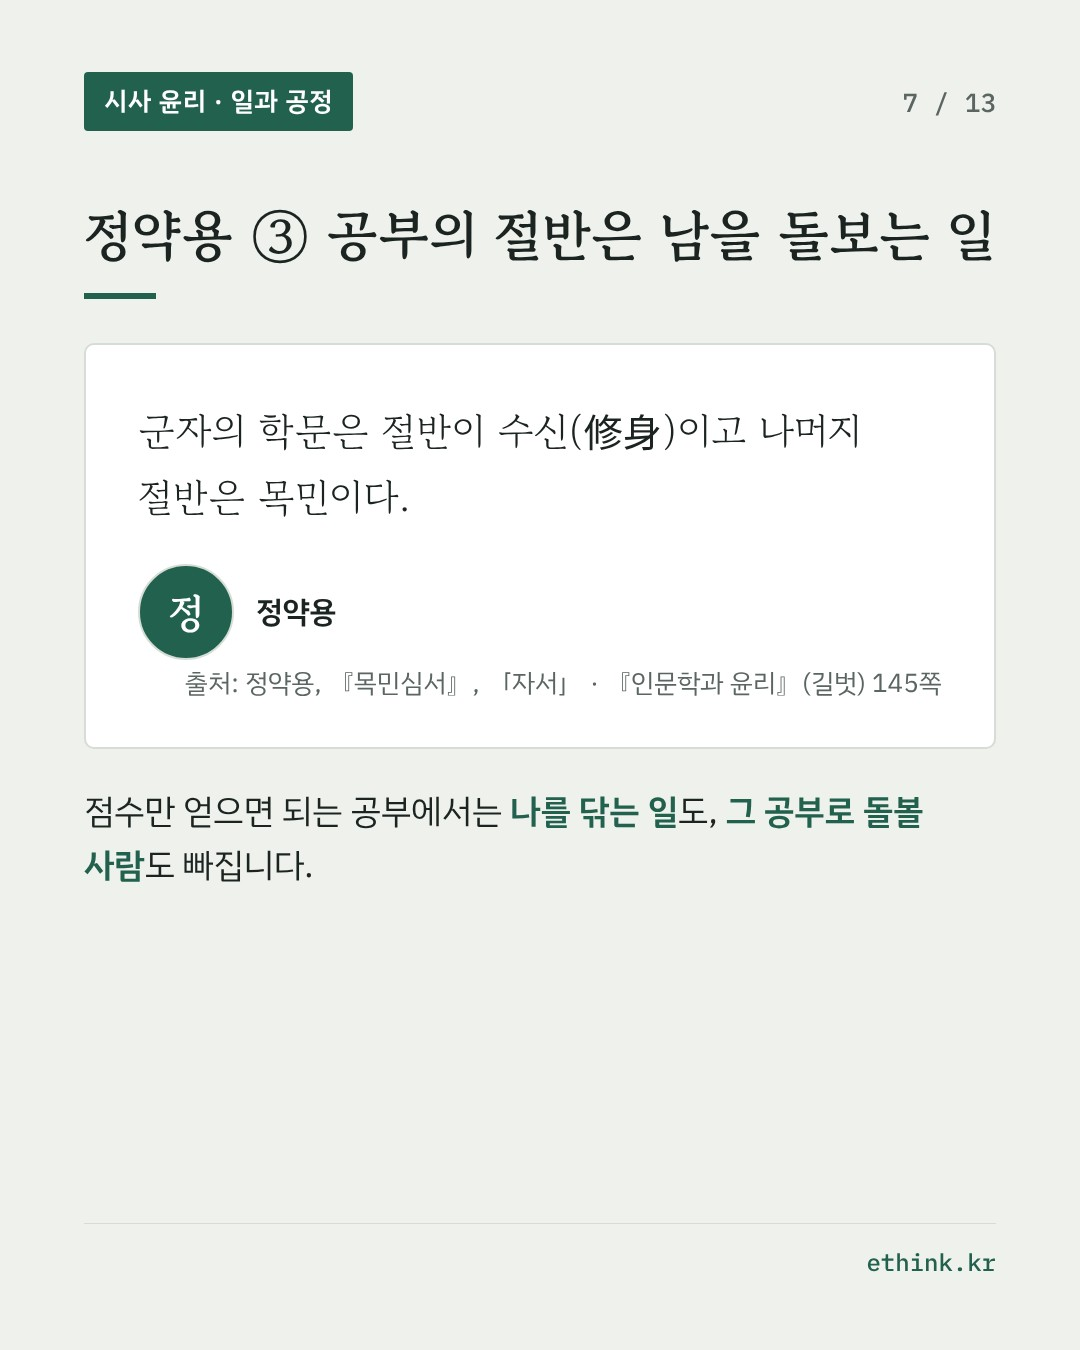
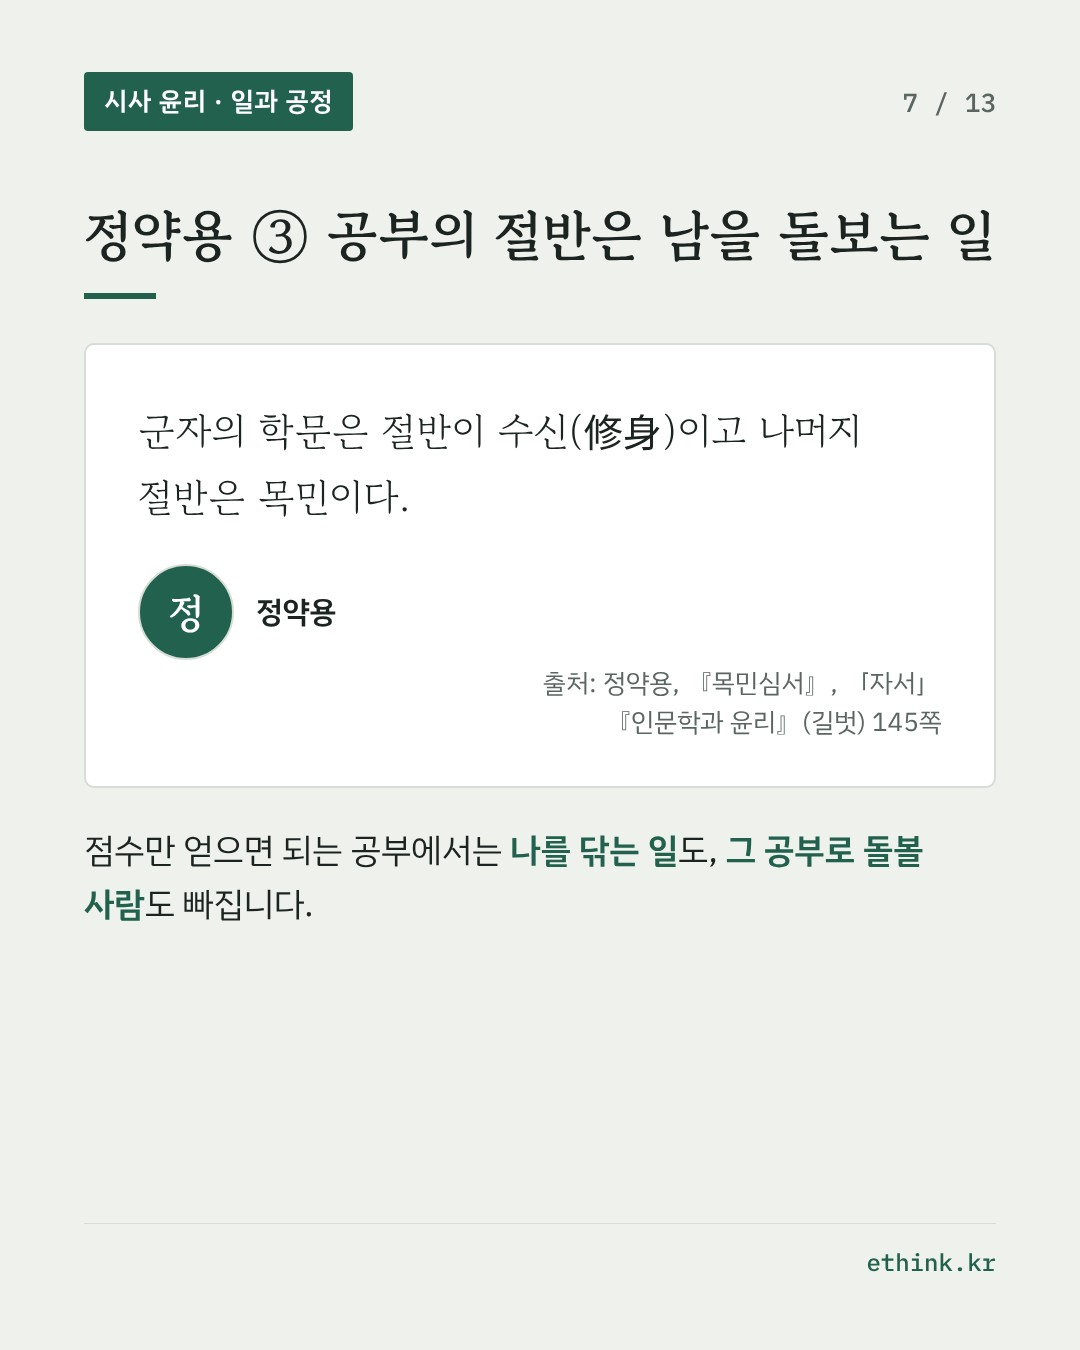
draft 11.16 카드 수정: 출처 두 줄, 교과서 명시, 인용 카드 닫는 따옴표, 마지막 장 문구, 수업 연계 머리말 삭제

Changed region(s): [[0.0611, 0.5911, 0.8556, 0.6844], [0.4583, 0.4978, 0.8861, 0.56], [0.1528, 0.4978, 0.4278, 0.5289]]

diff --git a/_tools/WRITING_GUIDE.md b/_tools/WRITING_GUIDE.md
@@ -67,8 +67,9 @@
   - **카드 뉴스 구성·댓글 투표 개정(2026-11-14부터, 재형 님 결정)**:
     - 댓글 투표는 **두 입장(2지선다)**으로만 쓴다. `poll.options`는 2개, "1번 ○○다 vs 2번 ○○다"처럼 서로 맞서는 입장. ask는 "1번과 2번 중 하나를 고르고, 이유를 한 줄로 댓글에 남겨 주세요!". GPT 카드 뉴스의 first_comment도 같은 양식으로 고쳐 넣는다(A~D 보기 금지).
     - **인용 전용 카드(type: pull) 한 장**을 넣는다: 사상가 문장이나 글의 결론 한 문장을 진한 단색 바탕에 2~3줄(60자 안팎, 원문 그대로, 줄일 때는 (…)). 스토리 공유용 `<이름>-pull-story.jpg`가 함께 만들어진다.
-    - **수업 연계 카드(type: lesson)를 end 바로 앞에 고정**: 교과 연계(『인문학과 윤리』 단원을 맨 앞에, 3개 이내) + "교과서 인용: 『…』(길벗) 쪽" 한 줄(본문 카드에 나온 쪽수를 정리) + 탐구 질문 2개. 순서는 … → pull → lesson → end.
+    - **수업 연계 카드(type: lesson)를 end 바로 앞에 고정**: 교과 연계(『인문학과 윤리』 단원을 맨 앞에, 3개 이내) + "『…』(길벗) 쪽" 한 줄(본문 카드에 나온 쪽수를 정리, '교과서 인용:' 같은 머리말은 붙이지 않는다) + 탐구 질문 2개. 순서는 … → pull → lesson → end.
     - '세특 단골', '면접 단골' 같은 입시 문구는 쓰지 않는다. 학생 활동은 '탐구 질문'으로 쓴다(인문교양 성격 유지).
+    - (2026-11-16 추가) 카드 출처가 둘(원전 · 교과서)이면 두 줄로 나눈다(도구가 자동 처리). 인용 전용 카드는 여는 따옴표와 닫는 따옴표를 모두 둔다(도구가 자동 처리). 마지막 장 안내는 "여러분의 생각을 댓글로 남겨 주세요."까지만(한 줄이어도 좋습니다 삭제). 카드 풀이에 '교과서(○쪽)'라고만 쓰지 말고 '길벗 『인문학과 윤리』(○쪽)'처럼 어느 교과서인지 밝힌다.
     - 표지 hook은 도발적인 질문형으로 쓰되, 수치는 근거 범위 안에서만 쓴다(예: 개발자가 밝힌 하루 방문자 10만 명을 '무신론자 10만 명'처럼 바꿔 쓰지 않는다. 좋은 예: "종교는 버렸는데, 왜 절하는 동작은 남았을까?").
     - 릴스는 아직 만들지 않는다. 도달 효과가 확인되지 않았으므로, 하게 되면 2~3편만 시험해 인스타그램 인사이트의 비팔로워 도달을 카드 뉴스와 비교한 뒤 정한다.
   - **캡션 양식(2026-11-12부터)**: 인스타그램 캡션과 첫 댓글은 겹치지 않게 한다. 투표 질문·보기·"댓글 달아 주세요" 안내는 첫 댓글에만 쓰고 캡션에서는 뺀다(캡션 끝의 "이번 주 질문… 댓글로 남겨 주세요" 문단도 투표가 있으면 쓰지 않는다). 인스타그램에는 '에씽크'만 드러내고 글쓴이 이름(박재형)은 쓰지 않는다. 원문 표기는 "원문: 「제목」, 에씽크 '윤리로 읽는 책'(또는 '윤리로 읽는 뉴스'), 날짜." 형식. GPT 카드 뉴스의 게시글 txt에 이름이나 투표 문단이 있어도 같은 기준으로 고쳐 넣는다. 게시 도구(ig-post.cjs의 tidyCaption)도 올리기 직전에 이름과 첫 댓글과 같은 줄을 한 번 더 걸러 낸다.
